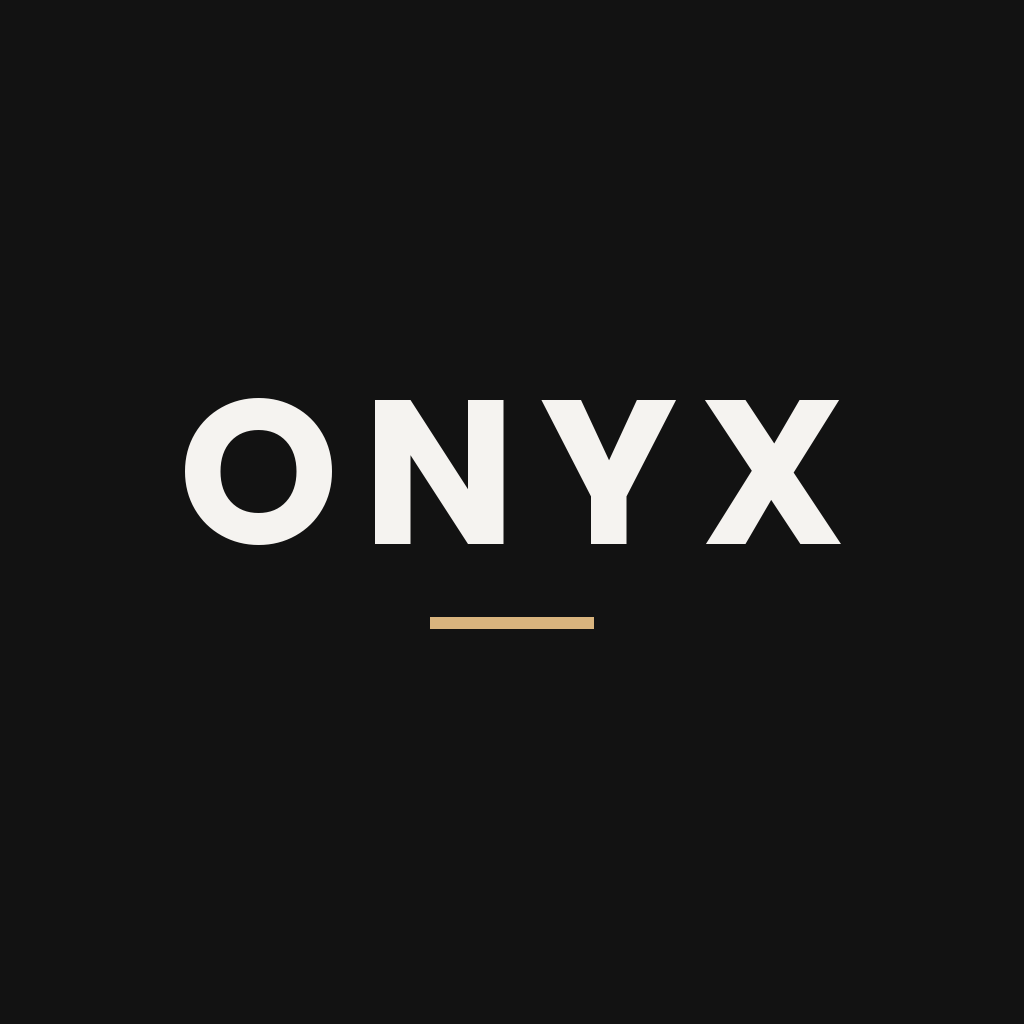
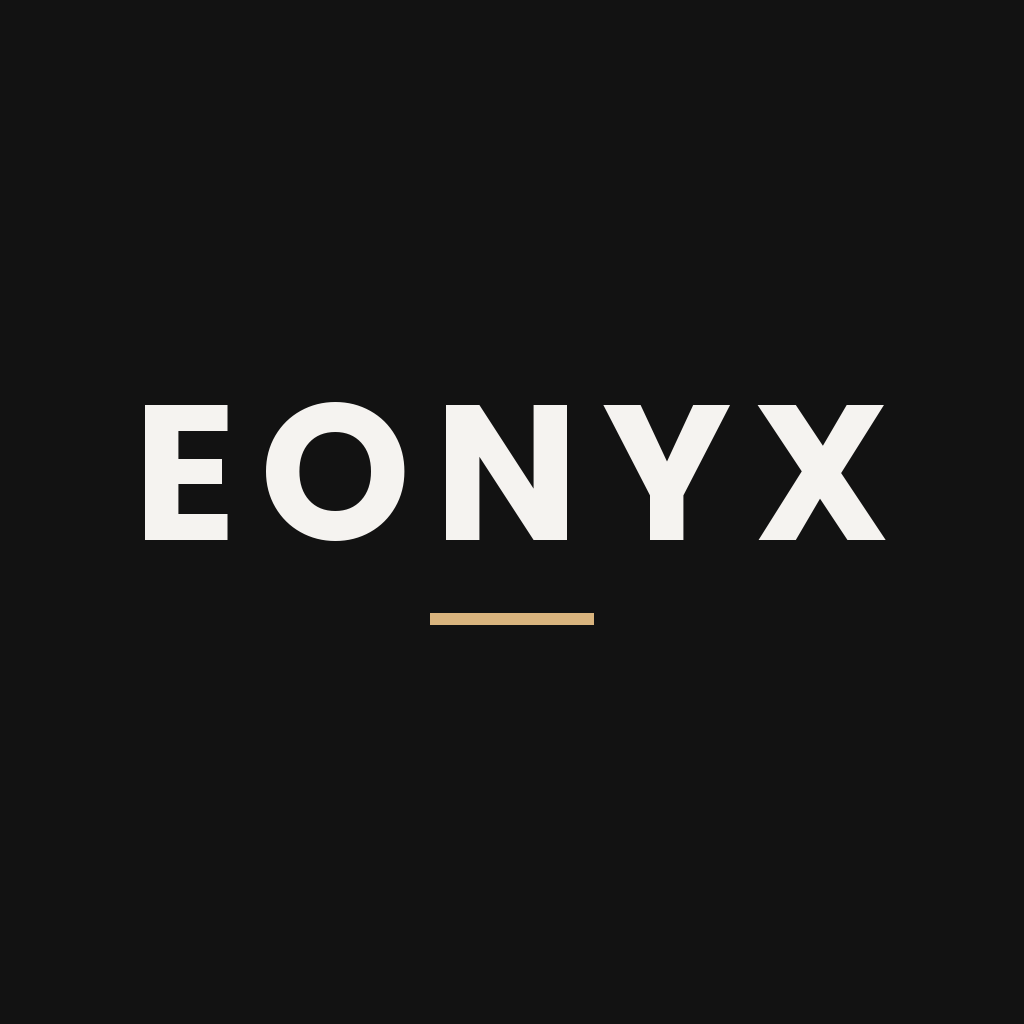
Rename app to eonyx
- App name, slug, URL scheme and bundle/package id now use eonyx
- PWA manifest, home-screen title and service worker cache renamed
- Welcome wordmark and app icons now read EONYX
- Docs and README updated; the live Vercel URL is unchanged until redeployed

Changed region(s): [[0.125, 0.375, 0.875, 0.5312], [0.4062, 0.5938, 0.5938, 0.625]]

diff --git a/public/sw.js b/public/sw.js
@@ -1,11 +1,11 @@
-// Onyx service worker — makes the web app installable and usable offline.
+// eonyx service worker — makes the web app installable and usable offline.
 // Strategy:
 //   • Navigations (any page URL)  → network first, fall back to the cached app shell.
 //   • Hashed build assets (/_expo) → cache first (file names change on every build).
 //   • Icons, fonts and product photos → stale-while-revalidate.
 // Bump CACHE_VERSION whenever the shell changes to force clients to refresh.
 
-const CACHE_VERSION = 'onyx-v1';
+const CACHE_VERSION = 'eonyx-v1';
 const SHELL_CACHE = `${CACHE_VERSION}-shell`;
 const ASSET_CACHE = `${CACHE_VERSION}-assets`;
 const IMAGE_CACHE = `${CACHE_VERSION}-images`;

diff --git a/src/app/welcome.tsx b/src/app/welcome.tsx
@@ -81,7 +81,7 @@ export default function Welcome() {
 
       <SafeAreaView edges={['top', 'bottom']} style={styles.overlay} pointerEvents="box-none">
         <View style={styles.topBar} pointerEvents="box-none">
-          <Text style={styles.wordmark}>ONYX</Text>
+          <Text style={styles.wordmark}>EONYX</Text>
           <Pressable onPress={() => router.replace('/(tabs)')} hitSlop={12} accessibilityRole="button">
             <Text style={[type.labelStrong, { color: 'rgba(255,255,255,0.8)' }]}>Skip</Text>
           </Pressable>

diff --git a/src/app/(tabs)/profile.tsx b/src/app/(tabs)/profile.tsx
@@ -96,7 +96,7 @@ export default function Profile() {
           <Divider inset />
           <Row icon="help-circle-outline" title="Help" subtitle="Delivery, sizing and returns" />
           <Divider inset />
-          <Row icon="sparkles-outline" title="Welcome tour" subtitle="See how Onyx works" onPress={() => router.push('/welcome')} />
+          <Row icon="sparkles-outline" title="Welcome tour" subtitle="See how eonyx works" onPress={() => router.push('/welcome')} />
         </View>
 
         {user ? (

diff --git a/src/theme/tokens.ts b/src/theme/tokens.ts
@@ -1,4 +1,4 @@
-// Design tokens — Onyx design system (light + dark).
+// Design tokens — eonyx design system (light + dark).
 // Every colour, radius and type size in the app comes from here.
 
 export const palette = {

diff --git a/README.md b/README.md
@@ -1,6 +1,6 @@
-# Onyx — Fashion Marketplace
+# eonyx — Fashion Marketplace
 
-Onyx is a fashion marketplace built with **Expo (SDK 58)**, **Expo Router** and **React Native**. It runs on iPhone and Android through Expo Go, and on any browser as an installable **Progressive Web App (PWA)**.
+eonyx is a fashion marketplace built with **Expo (SDK 58)**, **Expo Router** and **React Native**. It runs on iPhone and Android through Expo Go, and on any browser as an installable **Progressive Web App (PWA)**.
 
 It follows the screen flow of the *Onyx — Fashion Marketplace App | UI/UX Case Study*: a Discover feed with shoppable looks, a four-step checkout with one all-in total, guest checkout with just an email, cash on delivery preselected, live order tracking, saved items and dark mode.
 
@@ -40,8 +40,8 @@ Further guides:
 **Install and start**
 
 ```bash
-git clone https://github.com/<your-username>/onyx-marketplace.git
-cd onyx-marketplace
+git clone https://github.com/saivanka/eonyx.git
+cd eonyx
 npm install
 npx expo start
 ```
@@ -68,7 +68,7 @@ The web app can be opened in any browser and installed to the home screen.
 - **Android:** open the link in Chrome, tap **⋮ → Install app** (or **Add to Home screen**).
 - **Desktop Chrome / Edge:** click the install icon in the address bar.
 
-Once installed it opens full screen, has the Onyx icon, and the app shell works offline. Details are in [docs/PWA.md](docs/PWA.md).
+Once installed it opens full screen, has the eonyx icon, and the app shell works offline. Details are in [docs/PWA.md](docs/PWA.md).
 
 To build and preview it locally:
 
@@ -119,7 +119,7 @@ The first run asks you to log in and link the project. Other static hosts (Netli
 ## Project structure
 
 ```
-onyx-marketplace/
+eonyx/
 ├── src/
 │   ├── app/                 Expo Router routes. Each file is a screen; _layout.tsx files define navigators.
 │   │   ├── _layout.tsx      Root stack, font loading, providers, web phone-width column

diff --git a/docs/PWA.md b/docs/PWA.md
@@ -1,6 +1,6 @@
-# Onyx as a Progressive Web App
+# eonyx as a Progressive Web App
 
-Onyx ships as a PWA: a web build that can be installed to a phone or desktop, opens full screen, and keeps working when the network drops.
+eonyx ships as a PWA: a web build that can be installed to a phone or desktop, opens full screen, and keeps working when the network drops.
 
 ## What a user sees
 
@@ -17,7 +17,7 @@ Install requires HTTPS, or `localhost` during development.
 | File | Purpose |
 | --- | --- |
 | `public/manifest.webmanifest` | Name, short name, colours, `display: standalone`, icons (192, 512 and a maskable 512) |
-| `public/icon-*.png`, `apple-touch-icon.png`, `favicon.png` | App icons generated from the ONYX wordmark |
+| `public/icon-*.png`, `apple-touch-icon.png`, `favicon.png` | App icons generated from the EONYX wordmark |
 | `public/sw.js` | Service worker: caching and offline support |
 | `scripts/pwa-postbuild.mjs` | Adds the manifest link, iOS home-screen tags and service worker registration to `dist/index.html` |
 | `app.json` → `web` | Expo's web settings (`output: single`, theme colour, background colour) |
@@ -33,7 +33,7 @@ Expo's exporter does not write PWA tags, so `pwa-postbuild.mjs` adds them after 
 | Icons, fonts and other static files | Stale while revalidate | Fast, and updated in the background |
 | Product photos (cross-origin images) | Stale while revalidate | Photos appear again offline after first view |
 
-The worker's cache names start with `CACHE_VERSION` (currently `onyx-v1`). Old caches are deleted on activate.
+The worker's cache names start with `CACHE_VERSION` (currently `eonyx-v1`). Old caches are deleted on activate.
 
 ### Updating the installed app
 

diff --git a/docs/DEPLOYMENT.md b/docs/DEPLOYMENT.md
@@ -1,4 +1,4 @@
-# Deploying Onyx
+# Deploying eonyx
 
 The web build is static files in `dist/`. Any static host works, as long as it serves `index.html` for unknown paths (SPA routing) and serves `sw.js` over HTTPS.
 
